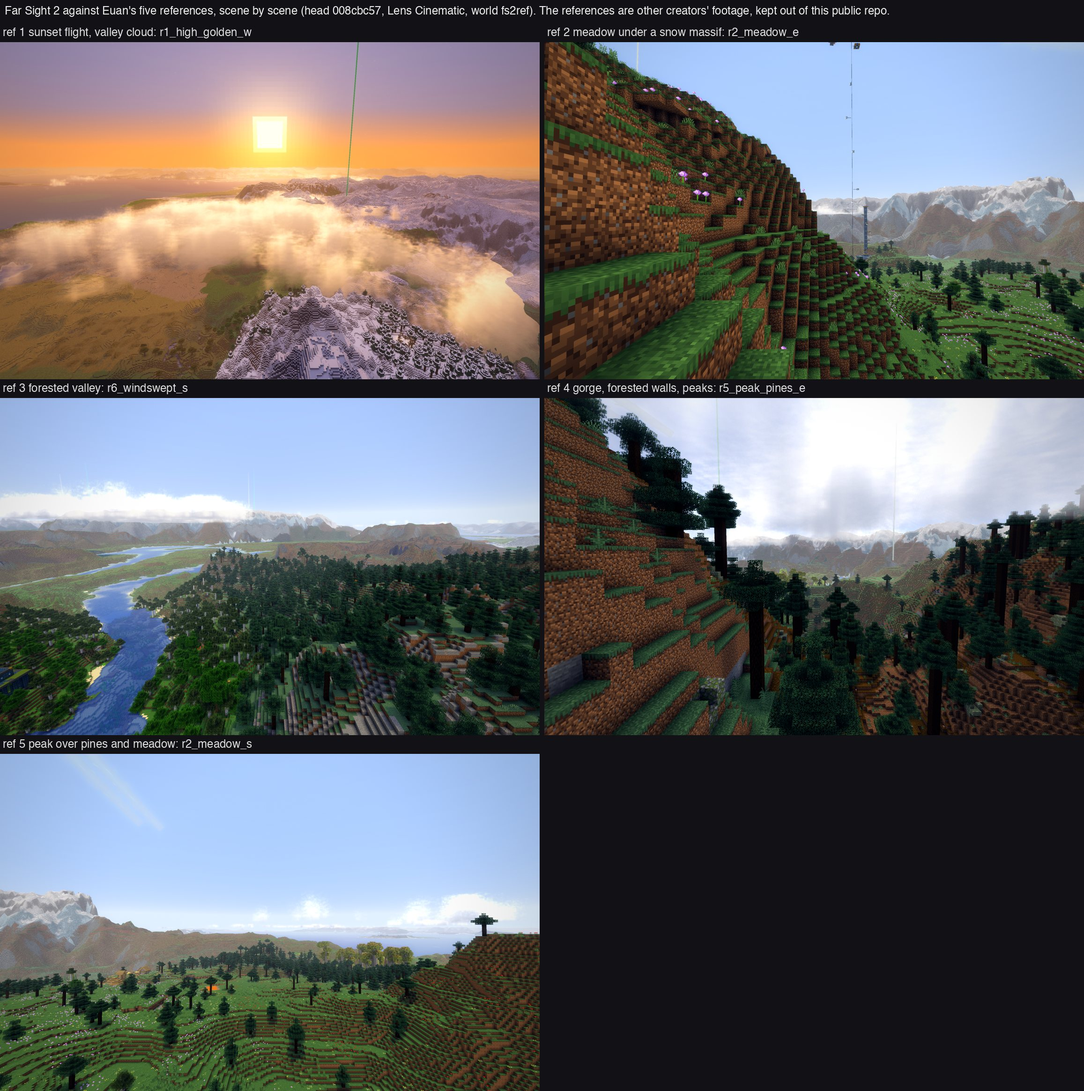
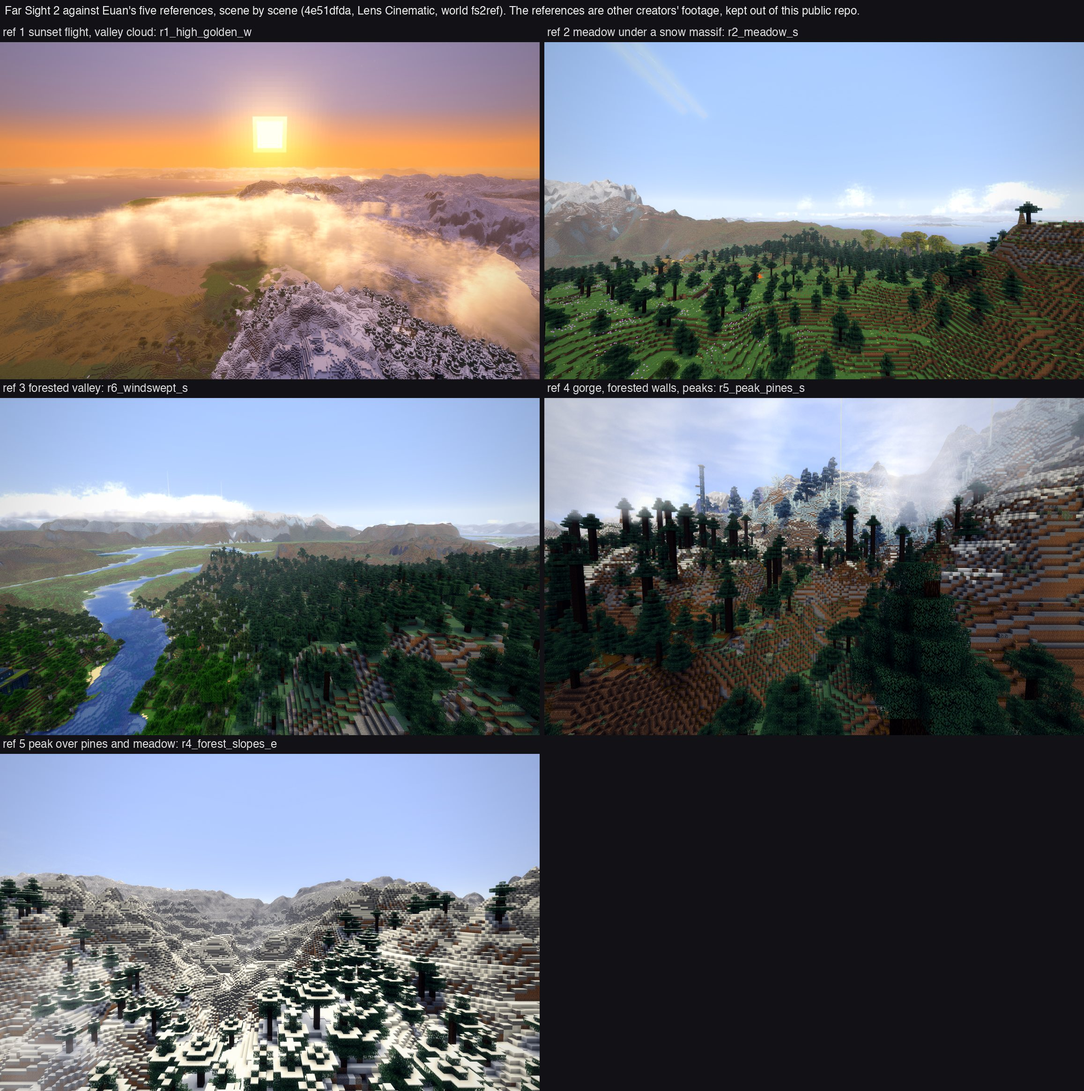
Far Sight 2: review sheets on the new head, budgets, open items

diff --git a/docs/perf/far-sight/STATUS.md b/docs/perf/far-sight/STATUS.md
@@ -10,8 +10,8 @@ Alpine". Page: https://claude.ai/artifact/1USNxEEEGNHTL1NAzfnKWN.
   µs and 8-block steps), continuous ring meshes with morphing, sub-cell erosion per pixel, alpine materials, far forests
   (instanced voxel trees, multi-draw indirect), ridge shadows, real-scale aerial perspective, valley cloud, Lens
   hand-off, the chunk mask (no holes after a jump), on by default (`farSight` FULL/NEAR/OFF).
-- **Measured** (`farsight2-perf.txt`, Ultra, sunset, 2880×1800, 2026-10-26 on `008cbc57`): 12.88 → 15.60 ms p50 (+2.7,
-  64 fps; ring 0 still filling). Cinematic on the A/B scenes: 11.4-12.8 ms p50, flight 77 fps.
+- **Measured** (`farsight2-perf.txt`, Ultra, sunset, 2880×1800, 2026-10-26 on `4e51dfda`): 12.74 → 15.53 ms p50 (+2.8
+  against the 2.7 budget, ring 0 still filling). Cinematic on the A/B scenes: 11.0-12.9 ms p50, flight 77 fps.
 - **Proof for review (2026-10-26):** `fs2-vs-refs.jpg` (the five reference scenes; the side-by-side with Euan's
   references is kept out of this public repo), `fs2-ab.jpg` (the old A/B scenes, compare `contact-sheet.jpg`).
 - **Since the build:** block-column far ground and Lens-matched light (Euan's playtest), mountain forests and patchy snow
@@ -21,9 +21,12 @@ Alpine". Page: https://claude.ai/artifact/1USNxEEEGNHTL1NAzfnKWN.
   taller worlds (needs Tectonic's noise settings copied or a mixin; summits round off under the ceiling instead).
 - **Open / follow-ups:**
   1. Lens's sunset dark bands: not seen in the 2026-10-26 golden-hour shots (refshots r1), so not chased further.
-  5. Water walls at the loaded edge: vanilla draws water side faces where the neighbouring chunk isn't loaded yet;
-     after a jump or in fast flight they show as pale slabs over the far sea (vanilla RD 32 and DH show them too, over
-     fog). Hiding them needs a mixin on `FluidRenderer` (unloaded neighbour counts as the same fluid): coordinate first.
+  5. Water walls at the loaded edge: thin pale lines outline the loaded square after a jump or in fast flight (water
+     side faces toward chunks not yet received). The big pale squares were holes in the mask, fixed 2026-10-26 (3D
+     mask). Sodium meshes the chunks in the pack, so hiding the lines needs a hook in Sodium's fluid renderer, not
+     vanilla's (a vanilla-side Turbo mixin was built and dropped: it could not reach them).
+  6. Massif scale: the references' peaks fill the frame; ours stand under the world's ceiling (y 320). Taller worlds
+     (Tectonic `max_y`) would be a world-design change across modules: Euan's call.
   2. While a brand-new world generates (teleports, fast flight), the server's chunk generation and the workers load the
      CPU; frames dip until the land fills. Two workers on an M4; a frame-aware throttle is the next step if it bites.
   3. Multiplayer guests: no far view until server tiles (P7, decision 6).

diff --git a/docs/SPEC.md b/docs/SPEC.md
@@ -1454,10 +1454,10 @@ terrain half is Awakened Alpine (§15). The bar is Euan's five reference shots (
 - **Landmarks** (`FarLandmarks`): unchanged from stage 1 (gate pillars from `Gates.near` from 1500 blocks, the city's
   towers), drawn after the terrain and trees.
 - **Budgets** (measured): Lens Ultra at sunset on the jagged peaks, 2880×1800 (11% more pixels than 4K at 0.75): Far
-  Sight off 12.88 ms p50, on 15.60 (64.2 fps; 2026-10-26, block columns, measured while ring 0 still filled at load 7.9;
-  Far Sight's own GPU time 2.3 ms): the mesh and air 2.2 ms, bake 0.33, trees 0.13, valley cloud 0.07, erosion detail
-  within noise. Lens Cinematic on the A/B scenes (`farsight-ab.txt`, new Alpine world): vista 11.4-12.6 ms p50, low 12.2,
-  flight 12.8 (77 fps). GPU memory 49 MB (atlases 15 MB, trees 17 MB, depth at screen size). Render thread 0.2-0.5 ms. Horizon
+  Sight off 12.74 ms p50, on 15.53 (64.4 fps; 2026-10-26 on the head with upland snow, mountain spruce and the 3D mask,
+  measured while ring 0 still filled at load 6; Far Sight's own GPU time 2.9 ms): the mesh and air 2.4 ms, trees 0.16,
+  bake 0.07, valley cloud and erosion detail within noise. Lens Cinematic on the A/B scenes (`farsight-ab.txt`, new
+  Alpine world): vista 11.0-12.1 ms p50, low 12.4, flight 12.9 (77 fps). GPU memory 49 MB (atlases 15 MB, trees 17 MB, depth at screen size). Render thread 0.2-0.5 ms. Horizon
   (ring 6) in 0.2-1 s after a jump, all rings in 7-23 s while the server generates the new land.
 - **Turbo** (raw Vulkan compute culling) was not built: the plan keeps it only on a measured win, and what it could cull
   costs about 0.2 ms; the multi-draw indirect path is in place for a compute culler later.
